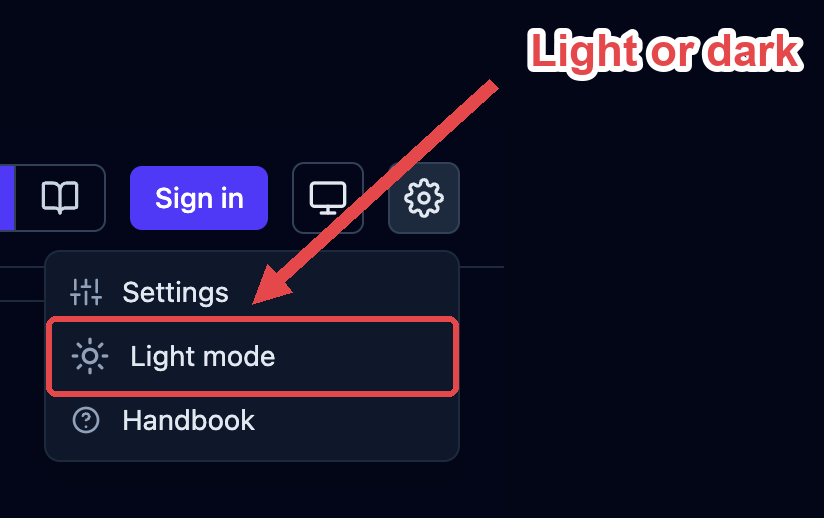
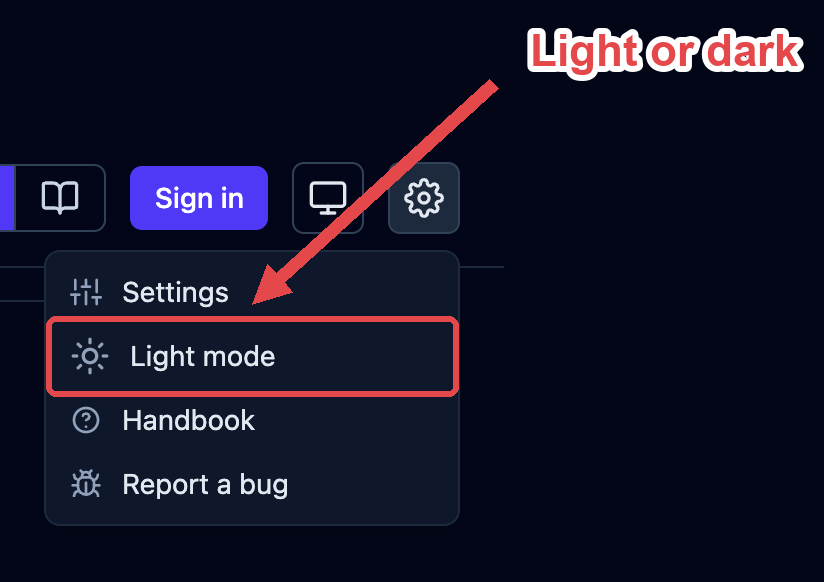
App: put a Report a bug link in the gear menu
A Game Master who hits something broken mid-fight shouldn't have to know the
repo exists — the gear menu now carries Report a bug, opening a fresh GitHub
issue in its own tab like the Handbook link beside it. The settings and
getting-started pages name the new row, and the gear-menu capture is re-shot
with it.

diff --git a/src/components/SettingsMenu.tsx b/src/components/SettingsMenu.tsx
@@ -72,6 +72,34 @@ function HelpIcon() {
   )
 }
 
+/** A bug — reporting one on GitHub. */
+function BugIcon() {
+  return (
+    <svg
+      viewBox="0 0 24 24"
+      fill="none"
+      stroke="currentColor"
+      strokeWidth={2}
+      strokeLinecap="round"
+      strokeLinejoin="round"
+      className="h-4 w-4"
+      aria-hidden="true"
+    >
+      <path d="m8 2 1.88 1.88" />
+      <path d="M14.12 3.88 16 2" />
+      <path d="M9 7.13v-1a3.003 3.003 0 1 1 6 0v1" />
+      <path d="M12 20c-3.3 0-6-2.7-6-6v-3a4 4 0 0 1 4-4h4a4 4 0 0 1 4 4v3c0 3.3-2.7 6-6 6" />
+      <path d="M12 20v-9" />
+      <path d="M6.53 9C4.6 8.8 3 7.1 3 5" />
+      <path d="M6 13H2" />
+      <path d="M3 21c0-2.1 1.7-3.9 3.8-4" />
+      <path d="M20.97 5c0 2.1-1.6 3.8-3.5 4" />
+      <path d="M22 13h-4" />
+      <path d="M17.2 17c2.1.1 3.8 1.9 3.8 4" />
+    </svg>
+  )
+}
+
 const ITEM =
   'flex w-full items-center gap-2.5 rounded px-2 py-1.5 text-left text-sm text-slate-700 hover:bg-slate-100 dark:text-slate-200 dark:hover:bg-slate-800'
 
@@ -170,6 +198,20 @@ export function SettingsMenu({
               <HelpIcon />
             </span>
             Handbook
+          </a>
+
+          <a
+            href="https://github.com/SirDarcanos/openfray/issues/new"
+            target="_blank"
+            rel="noreferrer"
+            role="menuitem"
+            onClick={close}
+            className={ITEM}
+          >
+            <span className="shrink-0 text-slate-500 dark:text-slate-400">
+              <BugIcon />
+            </span>
+            Report a bug
           </a>
         </div>
       )}

diff --git a/tests/components/SettingsMenu.test.tsx b/tests/components/SettingsMenu.test.tsx
@@ -28,11 +28,12 @@ describe('SettingsMenu', () => {
     expect(screen.getAllByRole('button')).toHaveLength(1)
   })
 
-  it('opens the three items', () => {
+  it('opens the four items', () => {
     menu()
     expect(screen.getByText('Settings')).toBeInTheDocument()
     expect(screen.getByText('Light mode')).toBeInTheDocument()
     expect(screen.getByText('Handbook')).toBeInTheDocument()
+    expect(screen.getByText('Report a bug')).toBeInTheDocument()
   })
 
   it('opens the settings panel and gets out of the way', () => {
@@ -63,6 +64,13 @@ describe('SettingsMenu', () => {
     menu()
     const link = screen.getByText('Handbook').closest('a')
     expect(link).toHaveAttribute('href', '/docs/')
+    expect(link).toHaveAttribute('target', '_blank')
+  })
+
+  it('sends a bug report to a fresh GitHub issue, in its own tab', () => {
+    menu()
+    const link = screen.getByText('Report a bug').closest('a')
+    expect(link).toHaveAttribute('href', 'https://github.com/SirDarcanos/openfray/issues/new')
     expect(link).toHaveAttribute('target', '_blank')
   })
 

diff --git a/docs/src/content/docs/reference/settings.md b/docs/src/content/docs/reference/settings.md
@@ -11,8 +11,8 @@ keywords:
 Some things live outside the fight: which **libraries** you play with, how much your
 players see on the screen you share with them, and whether the app is **light or dark**.
 They're set once and remembered in your browser, with no account needed. Click the **gear**
-at the top right and choose **Settings**. The same menu holds the light and dark switch, and
-a link to this handbook.
+at the top right and choose **Settings**. The same menu holds the light and dark switch, a
+link to this handbook, and **Report a bug**, which opens a new issue on GitHub.
 
 Settings opens on three tabs — **Libraries**, **Player view**, and **Importer** — and starts
 on Libraries.
@@ -78,7 +78,7 @@ Click the **gear** at the top right, then **Light mode** or **Dark mode** — th
 one you'd switch to. OpenFray opens dark by default. Your choice is remembered in your
 browser, and it's shared with the OpenFray website, so both match.
 
-![The gear menu open in the top bar, showing Settings, Light mode, and Handbook.](../../../assets/screens/theme-toggle.png)
+![The gear menu open in the top bar, showing Settings, Light mode, Handbook, and Report a bug.](../../../assets/screens/theme-toggle.png)
 
 ## The importer
 

diff --git a/docs/src/content/docs/getting-started.md b/docs/src/content/docs/getting-started.md
@@ -23,7 +23,7 @@ on it — nothing important is hidden in a menu.
 1. **The top bar.** Adding creatures and players, group saves, casting a spell, rests, and
    the switch between the console and the compendium. On its right: signing in, the
    **screen** (sharing a [player view](/docs/fight/player-view/)), and the **gear**, which
-   opens a short menu — settings, light or dark, and this handbook.
+   opens a short menu — settings, light or dark, this handbook, and reporting a bug.
 2. **The tracker.** Everyone in the fight, in the order they act, with hit points, armor
    class, and any conditions on them. This is the column you watch.
 3. **The stat block.** Everything about the current or selected combatant — abilities, actions, reactions, etc. Click an attack here to roll it. See [The stat block](/docs/reference/stat-block/).
